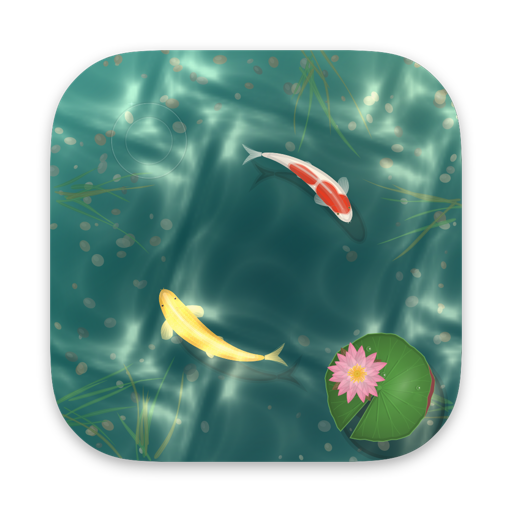
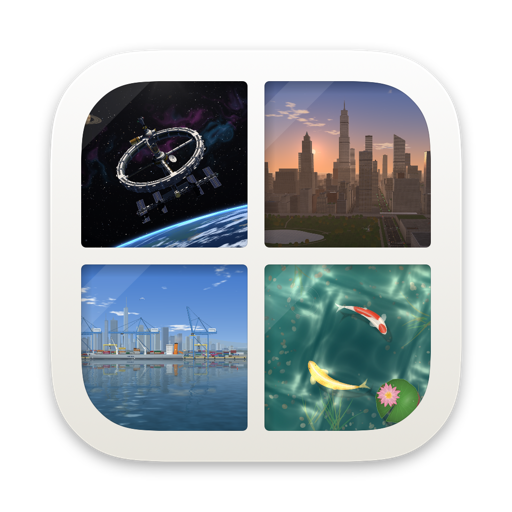
Rename to Out the Window, with the city among the scenes
Little Pond is now Out the Window (窗外 / 窓の外): the home page, the support
FAQ and the privacy policy use the new name in all four languages and say
what it used to be called. Support covers switching scenes and what clicks
do in each; the privacy policy says the scenes, not just the fish, answer
the mouse (nothing else about the data changes). New window icon.

diff --git a/privacy.html b/privacy.html
@@ -3,7 +3,7 @@
 <head>
 <meta charset="utf-8">
 <meta name="viewport" content="width=device-width, initial-scale=1">
-<title>小鱼塘隐私政策 · Little Pond Privacy Policy</title>
+<title>“窗外”隐私政策 · Out the Window Privacy Policy</title>
 <style>
   :root { --bg: #fbfaf7; --text: #1d2327; --muted: #5d6b72; --line: #e2e6e3; --accent: #1f7a6d; }
   @media (prefers-color-scheme: dark) {
@@ -26,23 +26,23 @@
   <nav><a href="#zh-hans">简体中文</a><a href="#en">English</a><a href="#ja">日本語</a><a href="#zh-hant">繁體中文</a></nav>
 
   <section id="zh-hans" lang="zh-Hans">
-    <h1>小鱼塘隐私政策</h1>
-    <p class="muted">更新日期：2026 年 10 月 1 日</p>
-    <p>小鱼塘不需要账号，不含广告、统计或追踪代码，开发者不会收到你的任何个人信息。</p>
+    <h1>“窗外”隐私政策</h1>
+    <p class="muted">更新日期：2026 年 10 月 9 日</p>
+    <p>“窗外”（原名“小鱼塘”）不需要账号，不含广告、统计或追踪代码，开发者不会收到你的任何个人信息。</p>
     <h2>天气与位置</h2>
-    <p>为了显示当地的天气，小鱼塘会向 Open-Meteo.com 查询天气。请求里只有一个大致的经纬度（发送前模糊到约 10 公里），不含账号、设备标识或其他个人信息。这个位置来自：</p>
+    <p>为了显示当地的天气，“窗外”会向 Open-Meteo.com 查询天气。请求里只有一个大致的经纬度（发送前模糊到约 10 公里），不含账号、设备标识或其他个人信息。这个位置来自：</p>
     <ul>
       <li>你手动选择的城市；</li>
       <li>或者在你允许后，由 macOS 定位服务给出的大致位置（城市名称由 Apple 的地理编码服务提供）；</li>
       <li>或者根据这台 Mac 的系统时区推断的城市，这种方式不需要任何权限。</li>
     </ul>
     <p>在设置里搜索城市时，你输入的文字会发送给 Open-Meteo 的城市搜索服务。</p>
-    <p>桌面显示港口时，小鱼塘还会用同一个大致位置，向 Open-Meteo 的海洋预报查询附近海面的潮汐和海浪。</p>
-    <p>打开“真实港口（香港）”后，小鱼塘会定时从香港特区政府海事处下载公开的在港船舶名单，请求里不含你的位置或其他信息。</p>
+    <p>桌面显示港口时，“窗外”还会用同一个大致位置，向 Open-Meteo 的海洋预报查询附近海面的潮汐和海浪。</p>
+    <p>打开“真实港口（香港）”后，“窗外”会定时从香港特区政府海事处下载公开的在港船舶名单，请求里不含你的位置或其他信息。</p>
     <p>和访问任何网站一样，Open-Meteo 能看到发出请求的网络 IP 地址。据 Open-Meteo 的说明，它的服务器日志（可能包含 IP 地址和查询的坐标）只用于维护服务和防止滥用，90 天后删除，详见 <a href="https://open-meteo.com/en/terms">open-meteo.com/en/terms</a>。</p>
-    <p>在设置里关闭“显示真实天气”、也不打开“真实港口”时，小鱼塘不会发出任何网络请求，也不会使用位置。</p>
+    <p>在设置里关闭“显示真实天气”、也不打开“真实港口”时，“窗外”不会发出任何网络请求，也不会使用位置。</p>
     <h2>鼠标与窗口</h2>
-    <p>为了让鱼对你在桌面上的点击和拖动作出反应，小鱼塘会在本机读取鼠标的位置和左键状态，以及距离上次使用键盘或鼠标过了多久（用于你离开时降低帧率）；它不读取你按了哪些键。为了在桌面被挡住时暂停动画省电，小鱼塘会读取屏幕上窗口的位置和大小，不读取窗口的内容或标题。这些信息只在你的 Mac 上即时使用，不会保存，也不会发送出去。</p>
+    <p>为了让场景对你在桌面上的点击和拖动作出反应，“窗外”会在本机读取鼠标的位置和左键状态，以及距离上次使用键盘或鼠标过了多久（用于你离开时降低帧率）；它不读取你按了哪些键。为了在桌面被挡住时暂停动画省电，“窗外”会读取屏幕上窗口的位置和大小，不读取窗口的内容或标题。这些信息只在你的 Mac 上即时使用，不会保存，也不会发送出去。</p>
     <h2>设置</h2>
     <p>你的设置（例如鱼的数量、选择的城市）只保存在这台 Mac 上。</p>
     <h2>联系</h2>
@@ -50,23 +50,23 @@
   </section>
 
   <section id="en" lang="en">
-    <h1>Little Pond Privacy Policy</h1>
-    <p class="muted">Updated October 1, 2026</p>
-    <p>Little Pond has no accounts, ads, analytics or tracking code. The developer receives no personal information from you.</p>
+    <h1>Out the Window Privacy Policy</h1>
+    <p class="muted">Updated October 9, 2026</p>
+    <p>Out the Window (formerly Little Pond) has no accounts, ads, analytics or tracking code. The developer receives no personal information from you.</p>
     <h2>Weather and location</h2>
-    <p>To show your local weather, Little Pond requests a forecast from Open-Meteo.com. The request contains only an approximate latitude and longitude (rounded to about 10 km before it is sent) and no account, device identifier or other personal information. The location comes from:</p>
+    <p>To show your local weather, Out the Window requests a forecast from Open-Meteo.com. The request contains only an approximate latitude and longitude (rounded to about 10 km before it is sent) and no account, device identifier or other personal information. The location comes from:</p>
     <ul>
       <li>a city you chose; or</li>
       <li>with your permission, an approximate location from macOS Location Services (the city name comes from Apple’s geocoding service); or</li>
       <li>a city inferred from your Mac’s time zone, which needs no permission.</li>
     </ul>
     <p>When you search for a city in Settings, the text you type is sent to Open-Meteo’s geocoding service.</p>
-    <p>While the harbor scene is showing, Little Pond also uses the same approximate location to ask Open-Meteo’s marine forecast for the tide and waves at the nearest sea.</p>
-    <p>With “Real Port (Hong Kong)” on, Little Pond regularly downloads the public list of vessels in port from the Hong Kong Marine Department. The request contains no location or other information about you.</p>
+    <p>While the harbor scene is showing, Out the Window also uses the same approximate location to ask Open-Meteo’s marine forecast for the tide and waves at the nearest sea.</p>
+    <p>With “Real Port (Hong Kong)” on, Out the Window regularly downloads the public list of vessels in port from the Hong Kong Marine Department. The request contains no location or other information about you.</p>
     <p>As with any website, Open-Meteo can see the IP address a request comes from. According to Open-Meteo, its server logs (which may contain IP addresses and requested coordinates) are used only to run the service and prevent abuse, and are deleted after 90 days. See <a href="https://open-meteo.com/en/terms">open-meteo.com/en/terms</a>.</p>
-    <p>If you turn off “Show Real Weather” in Settings and leave “Real Port (Hong Kong)” off, Little Pond makes no network requests and doesn’t use your location.</p>
+    <p>If you turn off “Show Real Weather” in Settings and leave “Real Port (Hong Kong)” off, Out the Window makes no network requests and doesn’t use your location.</p>
     <h2>Mouse and windows</h2>
-    <p>So that the fish react to your clicks and drags on the desktop, Little Pond reads the pointer position and left-button state on your Mac, and how long ago the keyboard or mouse was last used (to lower the frame rate while you’re away). It never reads which keys you press. To pause the animation when the desktop is covered, it reads the positions and sizes of on-screen windows, never their contents or titles. This information is used on your Mac in real time and is never stored or sent anywhere.</p>
+    <p>So that the scenes respond to your clicks and drags on the desktop, Out the Window reads the pointer position and left-button state on your Mac, and how long ago the keyboard or mouse was last used (to lower the frame rate while you’re away). It never reads which keys you press. To pause the animation when the desktop is covered, it reads the positions and sizes of on-screen windows, never their contents or titles. This information is used on your Mac in real time and is never stored or sent anywhere.</p>
     <h2>Settings</h2>
     <p>Your settings, such as the number of fish and the city you chose, are stored only on this Mac.</p>
     <h2>Contact</h2>
@@ -74,11 +74,11 @@
   </section>
 
   <section id="ja" lang="ja">
-    <h1>ちいさな池 プライバシーポリシー</h1>
-    <p class="muted">更新日：2026年10月1日</p>
-    <p>ちいさな池はアカウント不要で、広告・解析・トラッキングのコードも含みません。開発者があなたの個人情報を受け取ることはありません。</p>
+    <h1>「窓の外」プライバシーポリシー</h1>
+    <p class="muted">更新日：2026年10月9日</p>
+    <p>「窓の外」（旧名「ちいさな池」）はアカウント不要で、広告・解析・トラッキングのコードも含みません。開発者があなたの個人情報を受け取ることはありません。</p>
     <h2>天気と位置情報</h2>
-    <p>地域の天気を表示するため、ちいさな池はOpen-Meteo.comに天気を問い合わせます。リクエストに含まれるのはおおよその緯度と経度（送信前に約10kmの精度にぼかします）だけで、アカウント、デバイス識別子、その他の個人情報は含みません。この位置は次のいずれかです：</p>
+    <p>地域の天気を表示するため、「窓の外」はOpen-Meteo.comに天気を問い合わせます。リクエストに含まれるのはおおよその緯度と経度（送信前に約10kmの精度にぼかします）だけで、アカウント、デバイス識別子、その他の個人情報は含みません。この位置は次のいずれかです：</p>
     <ul>
       <li>あなたが選んだ都市</li>
       <li>許可した場合は、macOSの位置情報サービスによるおおよその位置（都市名はAppleのジオコーディングサービスが提供します）</li>
@@ -86,11 +86,11 @@
     </ul>
     <p>設定で都市を検索すると、入力した文字がOpen-Meteoの都市検索サービスに送信されます。</p>
     <p>港の場面を表示しているあいだは、同じおおよその位置を使って、Open-Meteoの海洋予報に近くの海の潮汐と波を問い合わせます。</p>
-    <p>「実際の港（香港）」をオンにすると、ちいさな池は香港海事処が公開している在港船舶の一覧を定期的にダウンロードします。リクエストには位置情報など、あなたに関する情報は含まれません。</p>
+    <p>「実際の港（香港）」をオンにすると、「窓の外」は香港海事処が公開している在港船舶の一覧を定期的にダウンロードします。リクエストには位置情報など、あなたに関する情報は含まれません。</p>
     <p>ほかのWebサイトと同様に、Open-MeteoからはリクエストのIPアドレスが見えます。Open-Meteoによると、サーバのログ（IPアドレスや問い合わせた座標を含む場合があります）はサービスの運用と不正利用の防止のためだけに使われ、90日後に削除されます。詳しくは<a href="https://open-meteo.com/en/terms">open-meteo.com/en/terms</a>をご覧ください。</p>
-    <p>設定で“実際の天気を表示”をオフにし、「実際の港（香港）」もオフのままなら、ちいさな池は通信を一切行わず、位置情報も使いません。</p>
+    <p>設定で“実際の天気を表示”をオフにし、「実際の港（香港）」もオフのままなら、「窓の外」は通信を一切行わず、位置情報も使いません。</p>
     <h2>マウスとウインドウ</h2>
-    <p>デスクトップでのクリックやドラッグに魚が反応するように、ちいさな池はこのMac上でポインタの位置と左ボタンの状態、そしてキーボードやマウスが最後に使われてからの時間（離席中にフレームレートを下げるため）を読み取ります。どのキーを押したかは読み取りません。デスクトップが隠れたときにアニメーションを止めるため、画面上のウインドウの位置と大きさを読み取りますが、内容やタイトルは読み取りません。これらの情報はMac上でその場で使うだけで、保存も送信もしません。</p>
+    <p>デスクトップでのクリックやドラッグに場面が反応するように、「窓の外」はこのMac上でポインタの位置と左ボタンの状態、そしてキーボードやマウスが最後に使われてからの時間（離席中にフレームレートを下げるため）を読み取ります。どのキーを押したかは読み取りません。デスクトップが隠れたときにアニメーションを止めるため、画面上のウインドウの位置と大きさを読み取りますが、内容やタイトルは読み取りません。これらの情報はMac上でその場で使うだけで、保存も送信もしません。</p>
     <h2>設定</h2>
     <p>魚の数や選んだ都市などの設定は、このMacにだけ保存されます。</p>
     <h2>お問い合わせ</h2>
@@ -98,23 +98,23 @@
   </section>
 
   <section id="zh-hant" lang="zh-Hant">
-    <h1>小魚塘隱私權政策</h1>
-    <p class="muted">更新日期：2026 年 10 月 1 日</p>
-    <p>小魚塘不需要帳號，不含廣告、統計或追蹤程式碼，開發者不會收到你的任何個人資訊。</p>
+    <h1>「窗外」隱私權政策</h1>
+    <p class="muted">更新日期：2026 年 10 月 9 日</p>
+    <p>「窗外」（原名「小魚塘」）不需要帳號，不含廣告、統計或追蹤程式碼，開發者不會收到你的任何個人資訊。</p>
     <h2>天氣與位置</h2>
-    <p>為了顯示當地的天氣，小魚塘會向 Open-Meteo.com 查詢天氣。請求裡只有一個大致的經緯度（傳送前模糊到約 10 公里），不含帳號、裝置識別碼或其他個人資訊。這個位置來自：</p>
+    <p>為了顯示當地的天氣，「窗外」會向 Open-Meteo.com 查詢天氣。請求裡只有一個大致的經緯度（傳送前模糊到約 10 公里），不含帳號、裝置識別碼或其他個人資訊。這個位置來自：</p>
     <ul>
       <li>你手動選擇的城市；</li>
       <li>或是在你允許後，由 macOS 定位服務提供的大致位置（城市名稱由 Apple 的地理編碼服務提供）；</li>
       <li>或是依這部 Mac 的系統時區推估的城市，這種方式不需要任何權限。</li>
     </ul>
     <p>在設定裡搜尋城市時，你輸入的文字會傳送給 Open-Meteo 的城市搜尋服務。</p>
-    <p>桌面顯示港口時，小魚塘還會用同一個大致位置，向 Open-Meteo 的海洋預報查詢附近海面的潮汐和海浪。</p>
-    <p>打開「真實港口（香港）」後，小魚塘會定時從香港特區政府海事處下載公開的在港船舶名單，請求裡不含你的位置或其他資訊。</p>
+    <p>桌面顯示港口時，「窗外」還會用同一個大致位置，向 Open-Meteo 的海洋預報查詢附近海面的潮汐和海浪。</p>
+    <p>打開「真實港口（香港）」後，「窗外」會定時從香港特區政府海事處下載公開的在港船舶名單，請求裡不含你的位置或其他資訊。</p>
     <p>和瀏覽任何網站一樣，Open-Meteo 能看到發出請求的網路 IP 位址。據 Open-Meteo 的說明，它的伺服器日誌（可能包含 IP 位址和查詢的座標）只用於維護服務和防止濫用，90 天後刪除，詳見 <a href="https://open-meteo.com/en/terms">open-meteo.com/en/terms</a>。</p>
-    <p>在設定裡關閉「顯示真實天氣」、也不打開「真實港口」時，小魚塘不會發出任何網路請求，也不會使用位置。</p>
+    <p>在設定裡關閉「顯示真實天氣」、也不打開「真實港口」時，「窗外」不會發出任何網路請求，也不會使用位置。</p>
     <h2>滑鼠與視窗</h2>
-    <p>為了讓魚對你在桌面上的按一下和拖移作出反應，小魚塘會在本機讀取指標的位置和左鍵狀態，以及距離上次使用鍵盤或滑鼠過了多久（用於你離開時降低影格速率）；它不會讀取你按了哪些鍵。為了在桌面被擋住時暫停動畫省電，小魚塘會讀取螢幕上視窗的位置和大小，不會讀取視窗的內容或標題。這些資訊只在你的 Mac 上即時使用，不會儲存，也不會傳送出去。</p>
+    <p>為了讓場景對你在桌面上的按一下和拖移作出反應，「窗外」會在本機讀取指標的位置和左鍵狀態，以及距離上次使用鍵盤或滑鼠過了多久（用於你離開時降低影格速率）；它不會讀取你按了哪些鍵。為了在桌面被擋住時暫停動畫省電，「窗外」會讀取螢幕上視窗的位置和大小，不會讀取視窗的內容或標題。這些資訊只在你的 Mac 上即時使用，不會儲存，也不會傳送出去。</p>
     <h2>設定</h2>
     <p>你的設定（例如魚的數量、選擇的城市）只儲存在這部 Mac 上。</p>
     <h2>聯絡</h2>

diff --git a/support.html b/support.html
@@ -3,7 +3,7 @@
 <head>
 <meta charset="utf-8">
 <meta name="viewport" content="width=device-width, initial-scale=1">
-<title>小鱼塘支持 · Little Pond Support</title>
+<title>“窗外”支持 · Out the Window Support</title>
 <style>
   :root { --bg: #fbfaf7; --text: #1d2327; --muted: #5d6b72; --line: #e2e6e3; --accent: #1f7a6d; --card: #ffffff; }
   @media (prefers-color-scheme: dark) {
@@ -28,24 +28,28 @@
   <nav><a href="#zh-hans">简体中文</a><a href="#en">English</a><a href="#ja">日本語</a><a href="#zh-hant">繁體中文</a></nav>
 
   <section id="zh-hans" lang="zh-Hans">
-    <h1>小鱼塘支持</h1>
-    <p class="muted">住在桌面上的一方鱼塘，会随今天的天气和时间变化。</p>
+    <h1>“窗外”支持</h1>
+    <p class="muted">把桌面变成一扇窗：窗外是鱼塘、港口、太空和城市，跟着今天的天气和时间变化。“窗外”原名“小鱼塘”。</p>
     <h2>常见问题</h2>
     <details open>
       <summary>打开后没有窗口，也不在 Dock 里？</summary>
-      <p>小鱼塘就在桌面上：把窗口移开就能看到鱼塘。它的设置在屏幕顶部菜单栏的鱼形图标里。如果菜单栏太挤、图标被刘海挡住或被隐藏，再次打开小鱼塘（在“应用程序”文件夹或启动台里）就会弹出设置窗口。</p>
+      <p>“窗外”就在桌面上：把窗口移开就能看到。它的设置在屏幕顶部菜单栏的窗形图标里。如果菜单栏太挤、图标被刘海挡住或被隐藏，再次打开“窗外”（在“应用程序”文件夹或启动台里）就会弹出设置窗口。</p>
     </details>
     <details>
-      <summary>怎么喂鱼、和鱼互动？</summary>
-      <p>点击桌面空白处（没有窗口遮挡的地方）会撒下鱼食；按住拖动能拨动水面；鼠标停在水面上，好奇的鱼会凑过来。菜单栏里还可以放养指定品种的锦鲤和金鱼，或者捞走一条。</p>
+      <summary>怎么切换场景？</summary>
+      <p>点菜单栏的窗形图标 › 场景，在鱼塘、港口、太空和城市之间切换；也可以在 设置 › 通用 里选。</p>
+    </details>
+    <details>
+      <summary>能和它互动吗？</summary>
+      <p>点击桌面空白处（没有窗口遮挡的地方）：鱼塘里会撒下鱼食，拖动能拨动水面；港口里海鸥会飞来抢面包屑，点船会鸣笛；太空里会派出无人机，点空间站会派出穿梭机；城市里拖过大楼能点亮窗户，点湖面、喷泉、草坪、路口、停机坪和塔吊都有回应。</p>
     </details>
     <details>
       <summary>天气或城市不对？不想显示天气？</summary>
-      <p>默认按 Mac 的系统时区估计城市。打开 设置 › 天气 › 位置来源，选择“使用我的位置”（需要允许定位），或者“手动选择城市”。不需要天气的话，关闭“显示真实天气”：小鱼塘就不再联网，鱼塘保持你选的天气。</p>
+      <p>默认按 Mac 的系统时区估计城市。打开 设置 › 天气 › 位置来源，选择“使用我的位置”（需要允许定位），或者“手动选择城市”。不需要天气的话，关闭“显示真实天气”：“窗外”就不再联网，桌面保持你选的天气。</p>
     </details>
     <details>
       <summary>会不会很耗电？</summary>
-      <p>鱼塘用 Metal 绘制。桌面被窗口完全挡住、使用全屏 App、锁屏或显示器睡眠时会自动暂停；用电池或开启低电量模式时会降低帧率和画质；长时间没有操作时也会自动降帧。你还可以在 设置 › 性能 里调低帧率和画质。</p>
+      <p>“窗外”用 Metal 绘制。桌面被窗口完全挡住、使用全屏 App、锁屏或显示器睡眠时会自动暂停；用电池或开启低电量模式时会降低帧率和画质；长时间没有操作时也会自动降帧。你还可以在 设置 › 性能 里调低帧率和画质。</p>
     </details>
     <details>
       <summary>开机自动启动？</summary>
@@ -57,7 +61,7 @@
     </details>
     <details>
       <summary>如何退出或卸载？</summary>
-      <p>点菜单栏的鱼形图标 › 退出小鱼塘。卸载时先退出，再把“应用程序”文件夹里的小鱼塘拖到废纸篓。</p>
+      <p>点菜单栏的窗形图标 › 退出“窗外”。卸载时先退出，再把“应用程序”文件夹里的“窗外”拖到废纸篓。</p>
     </details>
     <h2>联系</h2>
     <p>遇到问题或有建议，请发邮件到 <a href="mailto:Sehlani042@gmail.com">Sehlani042@gmail.com</a>，最好附上 macOS 版本和问题的截图。</p>
@@ -65,38 +69,46 @@
   </section>
 
   <section id="en" lang="en">
-    <h1>Little Pond Support</h1>
-    <p class="muted">A pond that lives on your desktop and changes with today’s weather.</p>
+    <h1>Out the Window Support</h1>
+    <p class="muted">Your desktop becomes a window onto a pond, a harbor, space and a city that follow today’s weather. Out the Window was called Little Pond.</p>
     <details open>
       <summary>Where is the app?</summary>
-      <p>The pond is your desktop: move windows aside to see it. Settings are under the fish icon in the menu bar. If the icon is hidden (for example behind the notch), open Little Pond again from Applications or Launchpad to bring up the Settings window.</p>
+      <p>It’s your desktop: move windows aside to see it. Settings are under the window icon in the menu bar. If the icon is hidden (for example behind the notch), open Out the Window again from Applications or Launchpad to bring up the Settings window.</p>
     </details>
     <details>
-      <summary>How do I feed the fish?</summary>
-      <p>Click an empty area of the desktop to drop food, click and drag to stir the water, and rest the pointer on the water to attract curious fish.</p>
+      <summary>How do I switch scenes?</summary>
+      <p>Click the window icon in the menu bar › Scene, and pick the pond, the harbor, space or the city. You can also choose in Settings › General.</p>
+    </details>
+    <details>
+      <summary>What can I do with it?</summary>
+      <p>Click an empty area of the desktop. In the pond, that drops fish food, and dragging stirs the water. In the harbor, gulls come for crumbs and a click on the ship sounds its horn. In space, a drone flies out to look, and a click on the station launches a shuttle. In the city, drag across a tower to light its windows, and click the lake, the fountain, the park, the crossing, the helipad or the crane.</p>
     </details>
     <details>
       <summary>The weather or city is wrong, or I don’t want weather</summary>
-      <p>By default the city is estimated from your Mac’s time zone. In Settings › Weather, choose Use My Location or Choose a City. To go without weather, turn off Show Real Weather: Little Pond then makes no network requests and keeps the weather you pick.</p>
+      <p>By default the city is estimated from your Mac’s time zone. In Settings › Weather, choose Use My Location or Choose a City. To go without weather, turn off Show Real Weather: Out the Window then makes no network requests and keeps the weather you pick.</p>
     </details>
     <details>
       <summary>Battery use</summary>
-      <p>The pond pauses automatically when the desktop is covered, in full-screen apps, on the lock screen and while displays sleep, and it lowers its frame rate on battery power.</p>
+      <p>It pauses automatically when the desktop is covered, in full-screen apps, on the lock screen and while displays sleep, and it lowers its frame rate on battery power.</p>
     </details>
     <h2>Contact</h2>
     <p><a href="mailto:Sehlani042@gmail.com">Sehlani042@gmail.com</a> · <a href="privacy.html#en">Privacy Policy</a> · Weather data by <a href="https://open-meteo.com/">Open-Meteo.com</a></p>
   </section>
 
   <section id="ja" lang="ja">
-    <h1>ちいさな池 サポート</h1>
-    <p class="muted">今日の天気で移り変わる池が、あなたのデスクトップに。</p>
+    <h1>「窓の外」サポート</h1>
+    <p class="muted">デスクトップが窓に。その外には池、港、宇宙、都市が、今日の天気と時間に合わせて。「窓の外」の旧名は「ちいさな池」です。</p>
     <details open>
       <summary>Appはどこにありますか？</summary>
-      <p>池はデスクトップそのものです。ウインドウをよけると見えます。設定はメニューバーの魚のアイコンにあります。アイコンが隠れているとき（ノッチの裏など）は、“アプリケーション”フォルダやLaunchpadからもう一度開くと設定ウインドウが表示されます。</p>
+      <p>デスクトップそのものです。ウインドウをよけると見えます。設定はメニューバーの窓のアイコンにあります。アイコンが隠れているとき（ノッチの裏など）は、“アプリケーション”フォルダやLaunchpadからもう一度開くと設定ウインドウが表示されます。</p>
     </details>
     <details>
-      <summary>エサのあげ方は？</summary>
-      <p>デスクトップの空いている所をクリックするとエサをまきます。ドラッグで水面をかき混ぜ、ポインタを水面に止めると好奇心旺盛な魚が寄ってきます。</p>
+      <summary>場面の切り替え方は？</summary>
+      <p>メニューバーの窓のアイコン › シーン から、池・港・宇宙・都市を選びます。設定 › 一般 でも選べます。</p>
+    </details>
+    <details>
+      <summary>どんなことができますか？</summary>
+      <p>デスクトップの空いている所をクリックします。池ではエサをまき、ドラッグで水面をかき混ぜます。港ではカモメがパンくずを取りに来て、船をクリックすると汽笛が鳴ります。宇宙ではドローンが飛んで行き、ステーションをクリックするとシャトルが発進します。都市ではビルの上をドラッグすると窓に明かりがともり、湖や噴水、公園、交差点、ヘリポート、クレーンもクリックに応えます。</p>
     </details>
     <details>
       <summary>天気や都市が違う／天気を表示したくない</summary>
@@ -111,19 +123,23 @@
   </section>
 
   <section id="zh-hant" lang="zh-Hant">
-    <h1>小魚塘支援</h1>
-    <p class="muted">住在桌面上的一方魚塘，會隨今天的天氣和時間變化。</p>
+    <h1>「窗外」支援</h1>
+    <p class="muted">把桌面變成一扇窗：窗外是魚塘、港口、太空和城市，跟著今天的天氣和時間變化。「窗外」原名「小魚塘」。</p>
     <details open>
       <summary>打開後沒有視窗，也不在 Dock 裡？</summary>
-      <p>小魚塘就在桌面上：把視窗移開就能看到魚塘。設定在螢幕上方選單列的魚形圖像裡。如果圖像被瀏海擋住或被隱藏，再次打開小魚塘（在「應用程式」檔案夾或啟動台裡）就會出現設定視窗。</p>
+      <p>「窗外」就在桌面上：把視窗移開就能看到。設定在螢幕上方選單列的窗形圖像裡。如果圖像被瀏海擋住或被隱藏，再次打開「窗外」（在「應用程式」檔案夾或啟動台裡）就會出現設定視窗。</p>
     </details>
     <details>
-      <summary>怎麼餵魚？</summary>
-      <p>按一下桌面空白處會撒下飼料；按住拖移能撥動水面；指標停在水面上，好奇的魚會湊過來。</p>
+      <summary>怎麼切換場景？</summary>
+      <p>按一下選單列的窗形圖像 › 場景，在魚塘、港口、太空和城市之間切換；也可以在 設定 › 一般 裡選。</p>
+    </details>
+    <details>
+      <summary>能和它互動嗎？</summary>
+      <p>按一下桌面空白處：魚塘裡會撒下飼料，拖移能撥動水面；港口裡海鷗會飛來搶麵包屑，按一下船會鳴笛；太空裡會派出無人機，按一下太空站會派出穿梭機；城市裡拖過大樓能點亮窗戶，按一下湖面、噴泉、草坪、路口、停機坪和塔吊都有回應。</p>
     </details>
     <details>
       <summary>天氣或城市不對？不想顯示天氣？</summary>
-      <p>預設依 Mac 的系統時區推估城市。在 設定 › 天氣 選擇「使用我的位置」或「手動選擇城市」。不需要天氣的話，關閉「顯示真實天氣」：小魚塘就不再連網，魚塘保持你選的天氣。</p>
+      <p>預設依 Mac 的系統時區推估城市。在 設定 › 天氣 選擇「使用我的位置」或「手動選擇城市」。不需要天氣的話，關閉「顯示真實天氣」：「窗外」就不再連網，桌面保持你選的天氣。</p>
     </details>
     <details>
       <summary>會不會很耗電？</summary>

diff --git a/index.html b/index.html
@@ -3,7 +3,7 @@
 <head>
 <meta charset="utf-8">
 <meta name="viewport" content="width=device-width, initial-scale=1">
-<title>小鱼塘 · Little Pond</title>
+<title>窗外 · Out the Window</title>
 <link rel="icon" href="icon.png">
 <style>
   :root { --bg: #fbfaf7; --text: #1d2327; --muted: #5d6b72; --accent: #1f7a6d; }
@@ -21,11 +21,11 @@
 <body>
 <main>
   <img src="icon.png" alt="">
-  <h1>小鱼塘 · Little Pond</h1>
-  <p>住在桌面上的一方鱼塘，会随今天的天气和时间变化。</p>
-  <p lang="en">A pond that lives on your Mac desktop and changes with today’s weather.</p>
-  <p lang="ja">今日の天気で移り変わる池が、あなたのデスクトップに。</p>
-  <p lang="zh-Hant">住在桌面上的一方魚塘，會隨今天的天氣和時間變化。</p>
+  <h1>窗外 · Out the Window</h1>
+  <p>把 Mac 的桌面变成一扇窗：窗外是鱼塘、港口、太空和城市，跟着今天的天气和时间变化。（原名“小鱼塘”）</p>
+  <p lang="en">Your Mac desktop becomes a window onto a pond, a harbor, space and a city that follow today’s weather and time of day. (Formerly Little Pond.)</p>
+  <p lang="ja">デスクトップが窓に。その外には池、港、宇宙、都市。今日の天気と時間に合わせて移り変わります。（旧名「ちいさな池」）</p>
+  <p lang="zh-Hant">把 Mac 的桌面變成一扇窗：窗外是魚塘、港口、太空和城市，跟著今天的天氣和時間變化。（原名「小魚塘」）</p>
   <div class="links">
     <a href="support.html">支持 · Support</a>
     <a href="privacy.html">隐私政策 · Privacy Policy</a>
